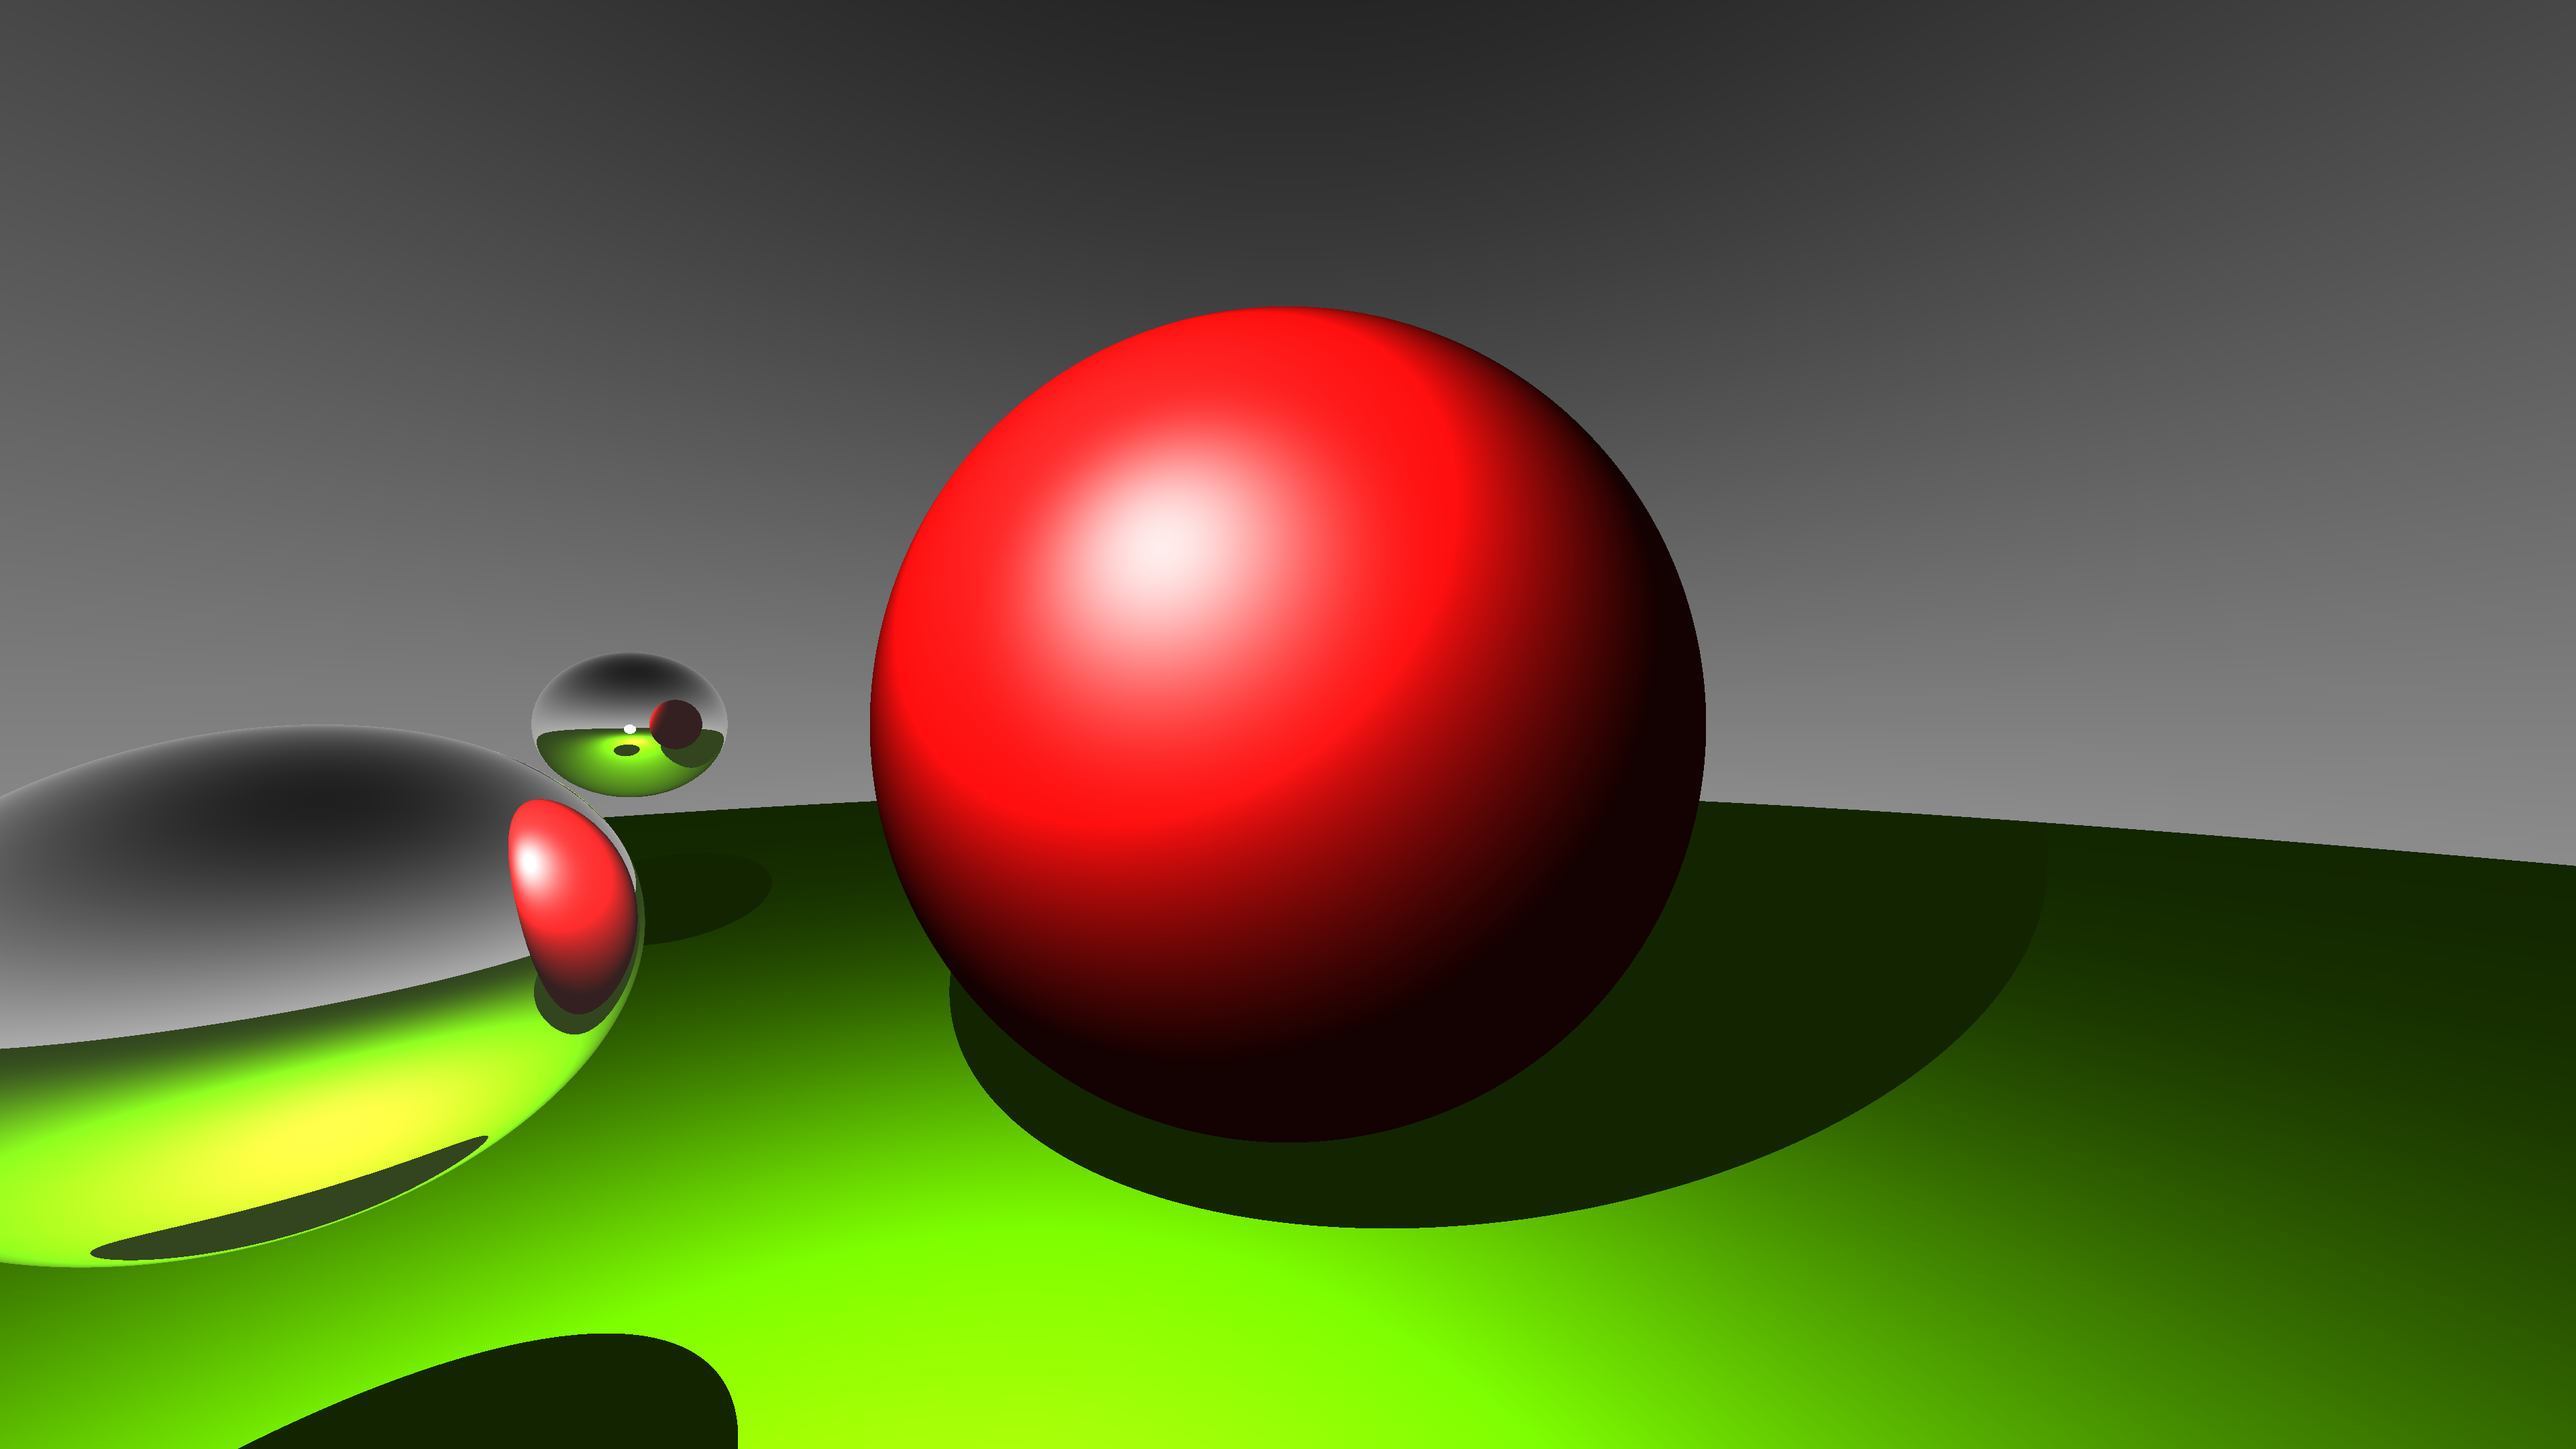
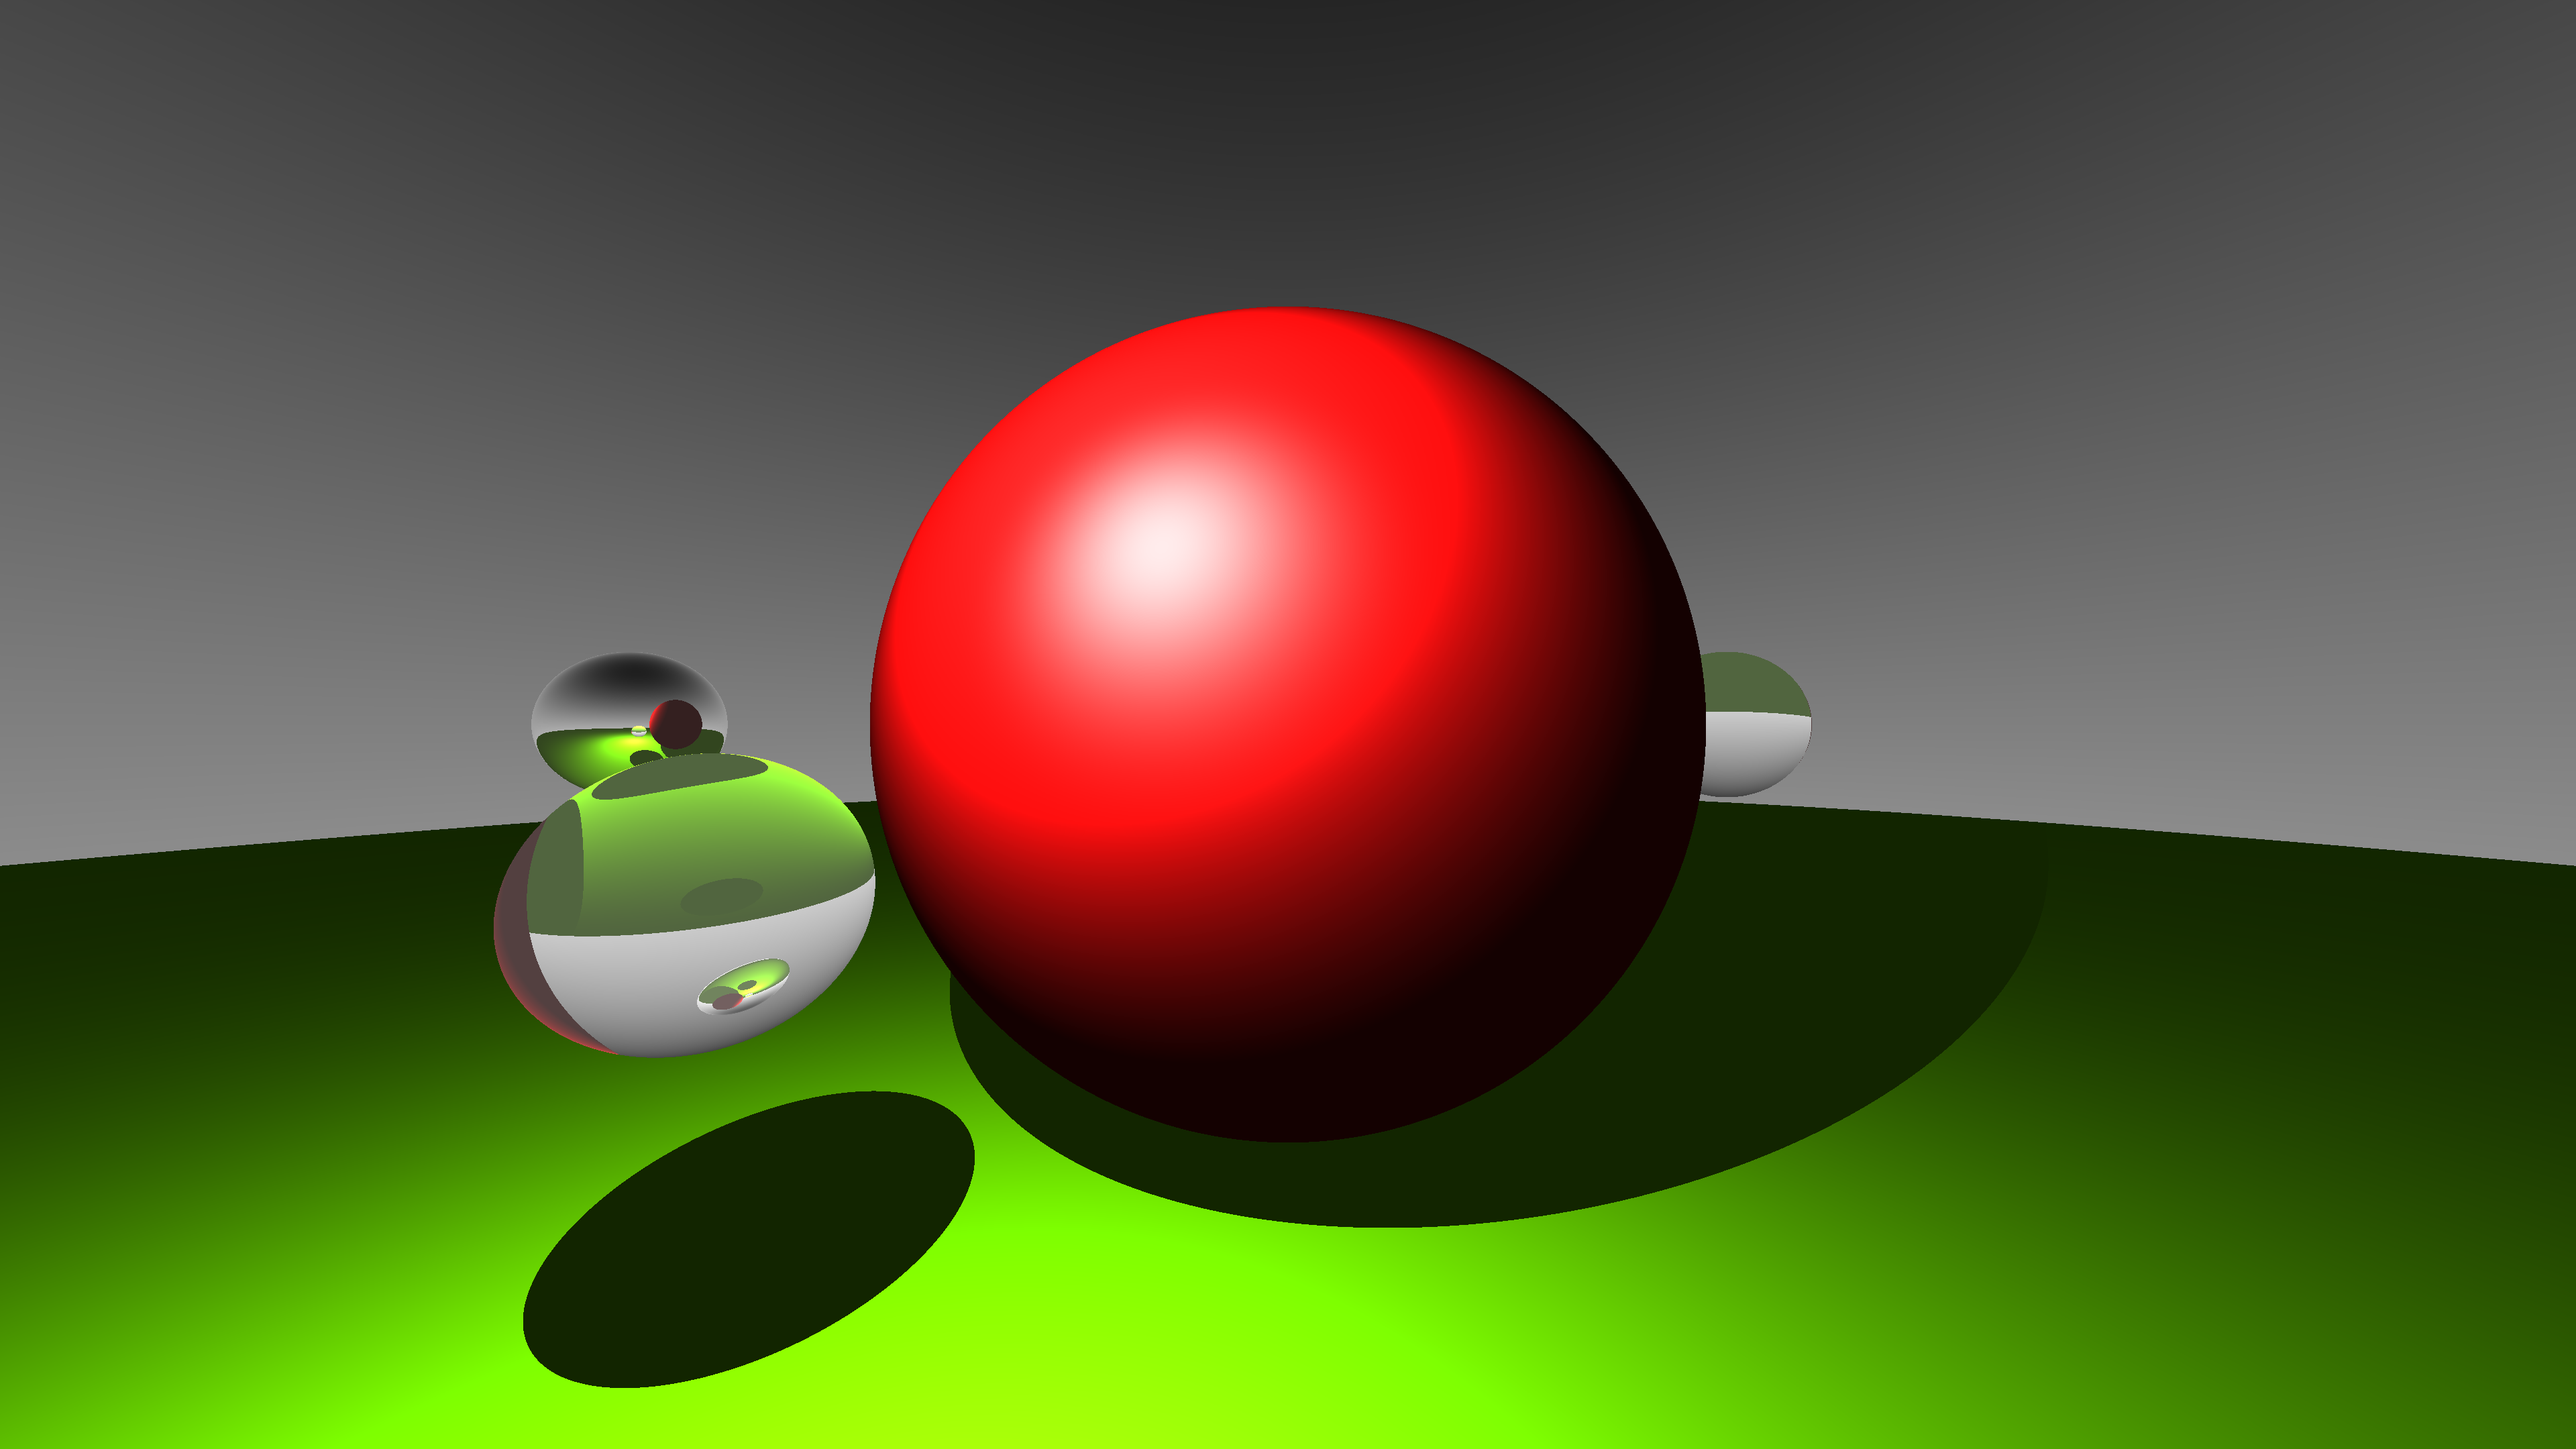
fix glass maybe

Changed region(s): [[0.0, 0.4963, 0.3438, 0.8995], [0.0938, 0.7444, 0.375, 1.0], [0.6562, 0.4343, 0.7188, 0.5583]]

diff --git a/src/tracer/material.rs b/src/tracer/material.rs
@@ -5,7 +5,7 @@ use crate::tracer::ray::Ray;
 pub trait Material {
     fn shade(&self, h: &Hit) -> DVec3;
     fn reflect(&self, h: &Hit) -> Option<Ray>;
-    fn refract(&self, h: &Hit) -> Option<Ray>;
+    fn refract(&self, h: &Hit, r: &Ray) -> Option<Ray>;
 }
 
 pub struct Default {}
@@ -23,7 +23,7 @@ impl Material for Default {
         None
     }
 
-    fn refract(&self, _h: &Hit) -> Option<Ray> {
+    fn refract(&self, _h: &Hit, _r: &Ray) -> Option<Ray> {
         None
     }
 }
@@ -37,12 +37,12 @@ impl Material for Mirror {
 
     fn reflect(&self, h: &Hit) -> Option<Ray> {
         Some(Ray {
-            origin: h.p + crate::EPSILON * h.n,
+            origin: h.p,
             dir: h.p - 2.0 * h.n * h.p.dot(h.n)
         })
     }
 
-    fn refract(&self, _h: &Hit) -> Option<Ray> {
+    fn refract(&self, _h: &Hit, _r: &Ray) -> Option<Ray> {
         None
     }
 }
@@ -58,30 +58,27 @@ impl Material for Glass {
         None
     }
 
-    fn refract(&self, h: &Hit) -> Option<Ray> {
+    fn refract(&self, h: &Hit, r: &Ray) -> Option<Ray> {
         const ETA: f64 = 1.5;
         let eta = if h.inside { ETA } else { 1.0 / ETA };
 
         /* Snell-Descartes law */
-        let up = h.p.normalize();
-        let cos_in = h.n.dot(-up);
-        let sin_in = (1.0 - cos_in*cos_in).sqrt();
-        if sin_in < 1.0 / eta {
+        let up = r.dir.normalize();
+        let cos_in = h.n.dot(-up).min(1.0);
+        let sin_out = (1.0 - cos_in*cos_in)*eta*eta;
+
+        if sin_out > 1.0 {
             // REFLECT
             return Some(Ray {
-                origin: h.p + crate::EPSILON * h.n,
+                origin: h.p,
                 dir: h.p - 2.0 * h.n * h.p.dot(h.n)
             });
         }
 
-        let dir = eta*up + h.n*
-            (eta*cos_in - (1.0 - eta*eta*sin_in*sin_in).sqrt());
+        let dir = eta*up + h.n *
+            (eta*cos_in - (1.0 - sin_out).sqrt());
         Some(Ray {
-            origin: h.p + if h.inside {
-                -crate::EPSILON*h.n
-            } else {
-                crate::EPSILON*h.n
-            },
+            origin: h.p,
             dir: dir
         })
     }

diff --git a/src/tracer/ray.rs b/src/tracer/ray.rs
@@ -12,7 +12,7 @@ impl Ray {
     }
 
     pub fn color(&self, scene: &Scene, depth: u32) -> DVec3 {
-        if depth > 50 {
+        if depth > 10 {
             return DVec3::ZERO;
         }
 
@@ -33,7 +33,7 @@ impl Ray {
                 h.l = scene.light - h.p;
 
                 let ray_to_light = Ray {
-                    origin: h.p + crate::EPSILON*h.n,
+                    origin: h.p,
                     dir: h.l
                 };
 
@@ -47,7 +47,7 @@ impl Ray {
                     Some(r) => color += r.color(scene, depth+1),
                     None => (),
                 }
-                match h.sphere.material.refract(&h) {
+                match h.sphere.material.refract(&h, self) {
                     Some(r) => color += r.color(scene, depth+1),
                     None => (),
                 }

diff --git a/src/tracer/scene.rs b/src/tracer/scene.rs
@@ -60,8 +60,13 @@ pub fn default() -> Scene {
                 radius: 0.1
             },
             Sphere {
-                origin: DVec3::new(-0.4, -0.1, -0.3),
-                //origin: DVec3::new(-0.4, -0.12, -0.5),
+                origin: DVec3::new(-0.4, -0.12, -0.5),
+                color: DVec3::splat(211.0) / 255.9,
+                material: Box::new(Glass {}),
+                radius: 0.1
+            },
+            Sphere {
+                origin: DVec3::new(0.6, 0.0, -1.0),
                 color: DVec3::splat(211.0) / 255.9,
                 material: Box::new(Glass {}),
                 radius: 0.1
